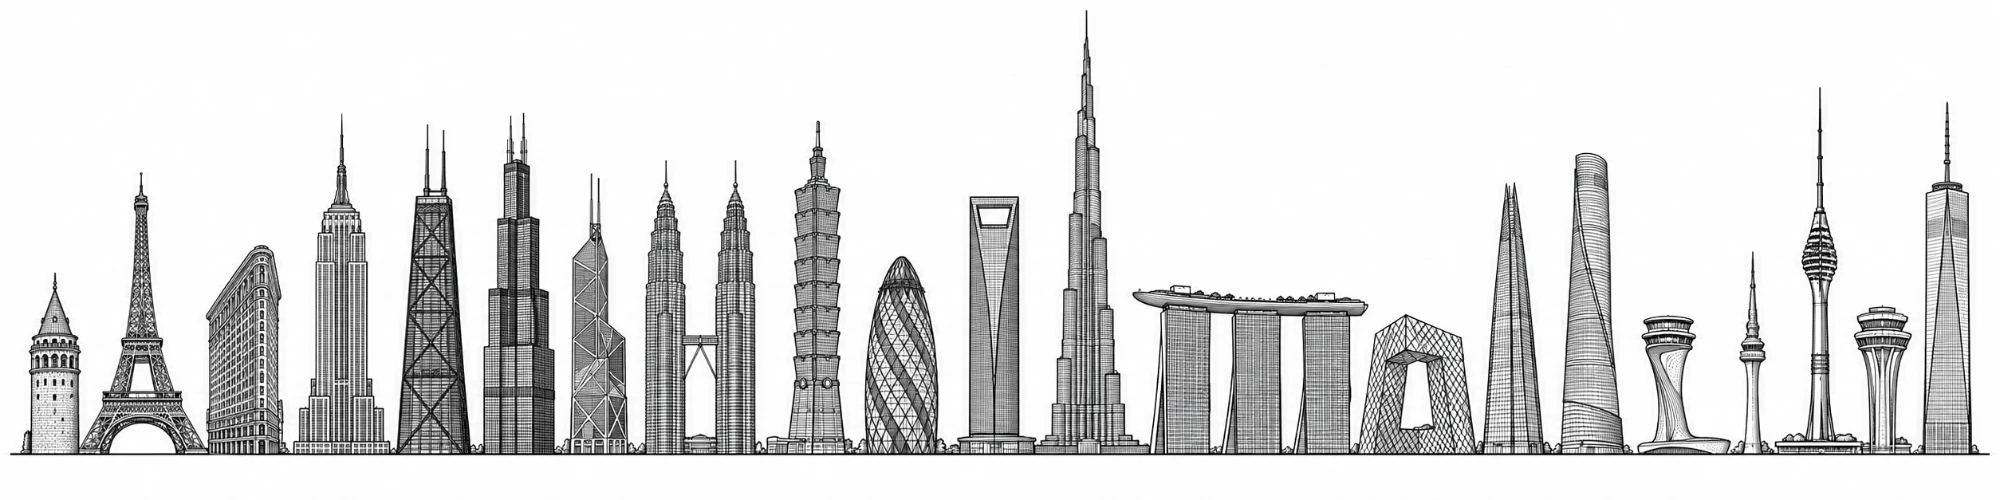
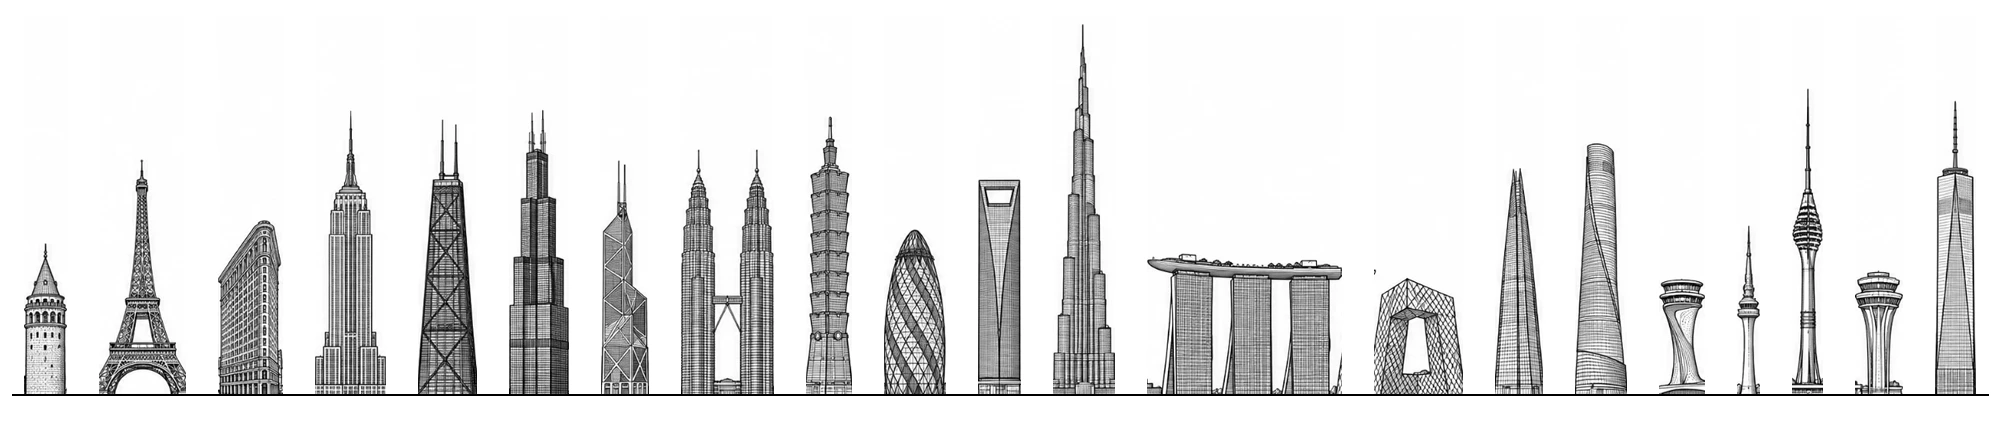
Skyline: all cranes at once, slower, uniform gaps, dust at the working level
tools/compose-skyline.py re-spaces the buildings with a fixed gap (and can insert
separate drawings later); the animation now gives every building its own crane.

Changed region(s): [[0.0, 0.0884, 1.0, 0.9138]]

diff --git a/assets/senkon/skyline.js b/assets/senkon/skyline.js
@@ -1,7 +1,8 @@
-/* Skyline band: raises the buildings of assets/senkon/skyline.webp one by one with three tower cranes,
-   once per page load, then leaves the finished picture. assets/senkon/skyline.json (written by
-   tools/measure-skyline.py) gives each building's column and top in image pixels. Without JavaScript,
-   with reduced motion, or if anything fails, the static picture simply shows. */
+/* Skyline band: raises every building of assets/senkon/skyline.webp at once, each with its own tower
+   crane and a little dust at the working level, once per page load, then leaves the finished picture.
+   assets/senkon/skyline.json (written by tools/measure-skyline.py) gives each building's column and
+   top in image pixels. Without JavaScript, with reduced motion, or if anything fails, the static
+   picture simply shows. */
 (function () {
   'use strict';
   const fig = document.getElementById('skyline');
@@ -12,10 +13,11 @@
   if (!stage || !stat) return;
   const SRC = stat.getAttribute('src'), V = SRC.indexOf('?') > -1 ? SRC.slice(SRC.indexOf('?')) : '';
 
-  const CRANES = 3;
-  const SETUP = 0.35, TEARDOWN = 0.35;      // seconds to erect / dismantle a crane
-  const MIN_BUILD = 0.55, MAX_BUILD = 1.9;  // seconds per building, scaled by its height
+  const SETUP = 1.0, TEARDOWN = 1.0;        // seconds to erect / dismantle a crane
+  const MIN_BUILD = 3.2, MAX_BUILD = 7.0;   // seconds per building, scaled by its height
+  const STAGGER = 0.05;                     // seconds between neighbouring starts, a ripple left to right
   const LEAD = 48;                          // crane mast stays this far (image px) above the current top
+  const PUFFS = 6, PUFF_CYCLE = 1.8;        // dust puffs per building and seconds per puff
 
   fetch('assets/senkon/skyline.json' + V).then(r => r.ok ? r.json() : Promise.reject(r.status)).then(prepare).catch(() => {});
 
@@ -24,21 +26,17 @@
     if (!cols.length) return;
     const hmax = Math.max.apply(null, cols.map(c => G - c.top));
 
-    // schedule: each building goes to the crane that frees up first, left to right
-    const free = []; for (let k = 0; k < CRANES; k++) free.push(k * 0.25);
     const jobs = cols.map((c, i) => {
-      let k = 0; for (let j = 1; j < CRANES; j++) if (free[j] < free[k]) k = j;
       const dur = MIN_BUILD + (MAX_BUILD - MIN_BUILD) * (G - c.top) / hmax;
-      const prev = cols[i - 1], next = cols[i + 1];
-      const gapL = c.x0 - (prev ? prev.x1 : 0), gapR = (next ? next.x0 : W) - c.x1;
-      const side = gapR >= gapL ? 1 : -1;                       // crane stands in the wider gap
-      const off = Math.min(Math.max(gapR >= gapL ? gapR : gapL, 14) / 2, 16);
-      const job = { c: c, k: k, t0: free[k], b0: free[k] + SETUP, b1: free[k] + SETUP + dur, side: side,
+      const next = cols[i + 1], prev = cols[i - 1];
+      const gapR = (next ? next.x0 : W) - c.x1, gapL = c.x0 - (prev ? prev.x1 : 0);
+      const side = gapR >= 20 || gapR >= gapL ? 1 : -1;        // cranes stand to the right, so no two share a gap
+      const off = Math.min(Math.max(side > 0 ? gapR : gapL, 14) / 2, 18);
+      const t0 = i * STAGGER;
+      return { c: c, t0: t0, b0: t0 + SETUP, b1: t0 + SETUP + dur, t1: t0 + SETUP + dur + TEARDOWN, side: side,
         mx: side > 0 ? c.x1 + off : c.x0 - off, jib: Math.min(c.x1 - c.x0 + 24 + off, 170), phase: i * 1.7 };
-      job.t1 = job.b1 + TEARDOWN; free[k] = job.t1 + 0.15;
-      return job;
     });
-    const total = Math.max.apply(null, free);
+    const total = Math.max.apply(null, jobs.map(j => j.t1)) + 0.2;
 
     const io = new IntersectionObserver(entries => {
       if (!entries.some(e => e.isIntersecting)) return;
@@ -54,20 +52,24 @@
       im.style.left = (-x0 / (x1 - x0 + 1) * 100) + '%';
       d.appendChild(im); return d;
     }
+    function el(name) { return document.createElementNS('http://www.w3.org/2000/svg', name); }
     function run() {
       const ground = layer(0, W - 1, (G - 2) / H * 100); ground.className = 'sk-ground';
       const wrap = document.createElement('div'); wrap.setAttribute('aria-hidden', 'true');
       wrap.appendChild(ground);
       jobs.forEach(j => { j.el = layer(j.c.x0, j.c.x1, G / H * 100); j.el.className = 'sk-b'; if (j.c.name) j.el.title = j.c.name; wrap.appendChild(j.el); });
-      const svg = document.createElementNS('http://www.w3.org/2000/svg', 'svg');
+      const svg = el('svg');
       svg.setAttribute('class', 'sk-cranes'); svg.setAttribute('viewBox', '0 0 ' + W + ' ' + H); svg.setAttribute('preserveAspectRatio', 'none');
-      const ink = getComputedStyle(document.documentElement).getPropertyValue('--ink').trim() || '#1d2b33';
-      const paths = [];
-      for (let k = 0; k < CRANES; k++) {
-        const p = document.createElementNS('http://www.w3.org/2000/svg', 'path');
+      const cs = getComputedStyle(document.documentElement);
+      const ink = cs.getPropertyValue('--ink').trim() || '#1d2b33', dust = cs.getPropertyValue('--muted').trim() || '#5b6a73';
+      const dustG = el('g'); dustG.setAttribute('fill', dust); svg.appendChild(dustG);
+      jobs.forEach(j => {
+        j.puffs = [];
+        for (let q = 0; q < PUFFS; q++) { const o = el('circle'); o.setAttribute('r', '0'); dustG.appendChild(o); j.puffs.push(o); }
+        const p = el('path');
         p.setAttribute('fill', 'none'); p.setAttribute('stroke', ink); p.setAttribute('stroke-width', '1.1'); p.setAttribute('stroke-linejoin', 'round');
-        svg.appendChild(p); paths.push(p);
-      }
+        svg.appendChild(p); j.path = p;
+      });
       wrap.appendChild(svg); stage.appendChild(wrap); fig.setAttribute('data-live', '1');
 
       let start = null, paused = 0, hiddenAt = null;
@@ -78,38 +80,48 @@
       function frame(now) {
         if (start === null) start = now;
         if (document.hidden) { requestAnimationFrame(frame); return; }
-        const t = (now - start) / 1000 - paused / 1000;
+        const t = (now - start - paused) / 1000;
         jobs.forEach(j => {
-          if (j.done) return;
+          if (j.finished) return;
           const p = Math.min(Math.max((t - j.b0) / (j.b1 - j.b0), 0), 1);
-          if (p > 0) {
-            const top = G - p * (G - j.c.top);
-            j.el.style.clipPath = 'inset(' + (top / H * 100).toFixed(3) + '% 0 0 0)';
+          const curTop = G - p * (G - j.c.top);
+          if (p > 0 && !j.done) {
+            j.el.style.clipPath = 'inset(' + (curTop / H * 100).toFixed(3) + '% 0 0 0)';
             if (p === 1) j.done = true;
           }
+          puffs(j, t, p, curTop);
+          if (t < j.t1) j.path.setAttribute('d', crane(j, t, p, curTop));
+          else { j.path.setAttribute('d', ''); j.finished = true; }
         });
-        for (let k = 0; k < CRANES; k++) {
-          let d = '';
-          for (let i = 0; i < jobs.length; i++) {
-            const j = jobs[i]; if (j.k !== k || t < j.t0 || t >= j.t1) continue;
-            d = crane(j, t); break;
-          }
-          paths[k].setAttribute('d', d);
-        }
         if (t < total) requestAnimationFrame(frame);
         else { svg.remove(); fig.setAttribute('data-done', '1'); }
       }
       requestAnimationFrame(frame);
     }
 
+    // dust at the working level: small puffs rising from the current top and fading
+    function hash(n) { const s = Math.sin(n * 12.9898) * 43758.5453; return s - Math.floor(s); }
+    function puffs(j, t, p, curTop) {
+      const c = j.c, w = c.x1 - c.x0;
+      for (let q = 0; q < PUFFS; q++) {
+        const o = j.puffs[q];
+        if (p <= 0 || p >= 1) { o.setAttribute('r', '0'); continue; }
+        const u = (t + q * PUFF_CYCLE / PUFFS + j.phase) / PUFF_CYCLE, cycle = Math.floor(u), age = u - cycle;
+        const seed = cycle * PUFFS + q + j.phase;
+        const x = c.x0 + w * (0.1 + 0.8 * hash(seed)) + (hash(seed + 0.5) - 0.5) * 10 * age;
+        const y = curTop + 3 - age * 16;
+        o.setAttribute('cx', x.toFixed(1)); o.setAttribute('cy', y.toFixed(1));
+        o.setAttribute('r', (2 + age * 6).toFixed(1)); o.setAttribute('opacity', (0.22 * (1 - age)).toFixed(3));
+      }
+    }
+
     // one crane's line drawing at time t, in image pixels
     function L(a, b, c, d) { return 'M' + a.toFixed(1) + ' ' + b.toFixed(1) + 'L' + c.toFixed(1) + ' ' + d.toFixed(1); }
-    function crane(j, t) {
+    function crane(j, t, p, curTop) {
       const c = j.c, x = j.mx, s = j.side;
-      const p = Math.min(Math.max((t - j.b0) / (j.b1 - j.b0), 0), 1);
-      const curTop = G - p * (G - c.top);                     // current top of the building
       let mastTop = Math.max(curTop - LEAD, c.top - LEAD, 8);
       let scale = 1;
+      if (t < j.t0) return '';
       if (t < j.b0) { scale = (t - j.t0) / SETUP; mastTop = G - LEAD; }
       else if (t >= j.b1) { scale = 1 - (t - j.b1) / TEARDOWN; }
       scale = Math.min(Math.max(scale, 0), 1);
@@ -120,7 +132,7 @@
       for (let y = G - 14; y > top + 6; y -= 14) d += L(x - half, y, x + half, y - 14) + L(x + half, y, x - half, y - 14);
       if (e < 0.3) return d;                                     // only the mast while erecting / dismantling
       const jibScale = Math.min((e - 0.3) / 0.5, 1);
-      const sw = 0.5 + 0.5 * Math.cos(t * 0.9 + j.phase);        // slewing: projected jib length
+      const sw = 0.5 + 0.5 * Math.cos(t * 0.33 + j.phase);       // slewing: projected jib length
       const jl = j.jib * (0.45 + 0.55 * sw) * jibScale * -s;      // jib points over the building
       const cl = -jl * 0.38;                                     // counter-jib
       const ty = top - 2;
@@ -135,7 +147,7 @@
       const cx = x + half * s, cx2 = cx - 7 * s;
       d += L(cx, ty + 5, cx2, ty + 5) + L(cx2, ty + 5, cx2, ty + 12) + L(cx2, ty + 12, cx, ty + 12);  // cab
       if (p > 0 && p < 1) {                                      // trolley, hook cable and a lifted beam
-        const f = 0.45 + 0.4 * Math.sin(t * 1.3 + j.phase), tx = x + jl * f;
+        const f = 0.45 + 0.4 * Math.sin(t * 0.5 + j.phase), tx = x + jl * f;
         const hy = Math.max(curTop - 10, ty + 20);
         d += L(tx - 3, ty + 5, tx + 3, ty + 5) + L(tx, ty + 5, tx, hy) + L(tx - 7, hy, tx + 7, hy) + L(tx - 7, hy + 3, tx + 7, hy + 3);
       }

diff --git a/index.html b/index.html
@@ -36,7 +36,7 @@
   </section>
 
   <figure id="skyline" class="wrap skyline" aria-label="Dünyanın ve Türkiye'nin simge yapılarından oluşan silüet">
-    <div class="skyline-stage"><img class="skyline-static" src="assets/senkon/skyline.webp?v=20261009" alt="Galata Kulesi'nden Burj Khalifa'ya yirmi simge yapının çizgi silüeti" width="2000" height="500"></div>
+    <div class="skyline-stage"><img class="skyline-static" src="assets/senkon/skyline.webp?v=20261009b" alt="Galata Kulesi'nden Burj Khalifa'ya yirmi simge yapının çizgi silüeti" width="2000" height="441"></div>
     <figcaption class="skyline-caption">Yapı mühendisliğinin simge yapıları. Ortada, üzerinde çalıştığımız Esenboğa Havalimanı Kontrol Kulesi.</figcaption>
   </figure>
 
@@ -141,6 +141,6 @@
   });
 })();
 </script>
-<script src="assets/senkon/skyline.js?v=20261009" defer></script>
+<script src="assets/senkon/skyline.js?v=20261009b" defer></script>
 </body>
 </html>

diff --git a/tools/compose-skyline.py b/tools/compose-skyline.py
@@ -1,0 +1,88 @@
+"""Re-space the buildings of a skyline drawing with a uniform gap, and optionally insert extra
+single-building drawings, then write a new picture of the same size.
+
+Usage: python tools/compose-skyline.py <in.webp> <out.webp> [--gap 40] [--margin 24]
+         [--insert index:file.png:height_px ...] [--split x1,x2]
+
+The source is black ink on white with one ground line. Buildings are found the same way as in
+measure-skyline.py (ink columns above the ground line, split by white gaps; --split forces a cut).
+Each building is cut out above the ground line and pasted back at a new x with the given gap; if the
+row does not fit, every cut-out is scaled down to fit. --insert places another drawing (alone on
+white, any size) before building <index> (0-based), scaled to <height_px> above the ground line.
+Empty sky above the tallest building is trimmed, so the output can be shorter than the input;
+update the width/height attributes of the <img> in index.html to the printed size.
+Run measure-skyline.py on the result to write skyline.json.
+"""
+import sys
+from PIL import Image, ImageDraw
+
+DARK, GAP, MIN_W, BASE = 170, 6, 12, 24
+
+def columns(im, splits=()):
+    w, h = im.size; px = im.load()
+    rows = [sum(1 for x in range(w) if px[x, y] < DARK) for y in range(h)]
+    ground = max(range(h * 2 // 3, h), key=lambda y: rows[y])
+    top = [None] * w
+    for x in range(w):
+        for y in range(0, ground - BASE):
+            if px[x, y] < DARK: top[x] = y; break
+    for x in splits: top[x] = None
+    runs, x = [], 0
+    while x < w:
+        if top[x] is None: x += 1; continue
+        x0, x1 = x, x
+        while x < w:
+            if top[x] is not None: x1 = x; x += 1
+            else:
+                nxt = x
+                while nxt < w and top[nxt] is None: nxt += 1
+                if nxt - x > GAP or any(x <= s < nxt for s in splits): break
+                x = nxt
+        if x1 - x0 + 1 >= MIN_W: runs.append((x0, x1))
+        x = max(x, x1 + 1)
+    return ground, runs
+
+def crop_ink(im):
+    """Bounding box of the ink in a stand-alone drawing (white background)."""
+    g = im.convert('L').point(lambda v: 0 if v < 235 else 255)
+    box = g.point(lambda v: 255 - v).getbbox()
+    return im.crop(box) if box else im
+
+args = sys.argv[1:]
+def opt(name, default):
+    if name in args:
+        i = args.index(name); v = args[i + 1]; del args[i:i + 2]; return v
+    return default
+gap = int(opt('--gap', 40)); margin = int(opt('--margin', 24))
+splits = {int(v) for v in opt('--split', '').split(',') if v}
+inserts = []
+while '--insert' in args:
+    i = args.index('--insert'); idx, f, hpx = args[i + 1].split(':'); del args[i:i + 2]
+    inserts.append((int(idx), f, int(hpx)))
+src, out = args[0], args[1]
+
+im = Image.open(src).convert('L')
+w, h = im.size
+ground, runs = columns(im, splits)
+pieces = [im.crop((x0, 0, x1 + 1, ground)) for x0, x1 in runs]      # everything above the ground line
+for idx, f, hpx in sorted(inserts, reverse=True):
+    extra = crop_ink(Image.open(f).convert('L'))
+    scale = hpx / extra.height
+    extra = extra.resize((max(1, round(extra.width * scale)), hpx), Image.LANCZOS)
+    pieces.insert(idx, extra)
+
+total = sum(p.width for p in pieces) + gap * (len(pieces) - 1) + 2 * margin
+f = min(1.0, (w - 2 * margin - gap * (len(pieces) - 1)) / sum(p.width for p in pieces))
+if f < 1: pieces = [p.resize((max(1, round(p.width * f)), max(1, round(p.height * f))), Image.LANCZOS) for p in pieces]
+
+canvas = Image.new('L', (w, h), 255)
+x = margin
+for p in pieces:
+    canvas.paste(p, (x, ground - p.height))
+    x += p.width + gap
+d = ImageDraw.Draw(canvas)
+d.line([(margin // 2, ground), (w - margin // 2, ground)], fill=0, width=2)
+sky = ground - max(p.height for p in pieces) - 16          # trim empty sky so the band keeps its height
+if sky > 0: canvas = canvas.crop((0, sky, w, h)); ground -= sky
+canvas.save(out, quality=92)
+print(f'{len(pieces)} buildings, gap {gap}px, scale {f:.3f}, size {canvas.width}x{canvas.height}, ground {ground} -> {out}')
